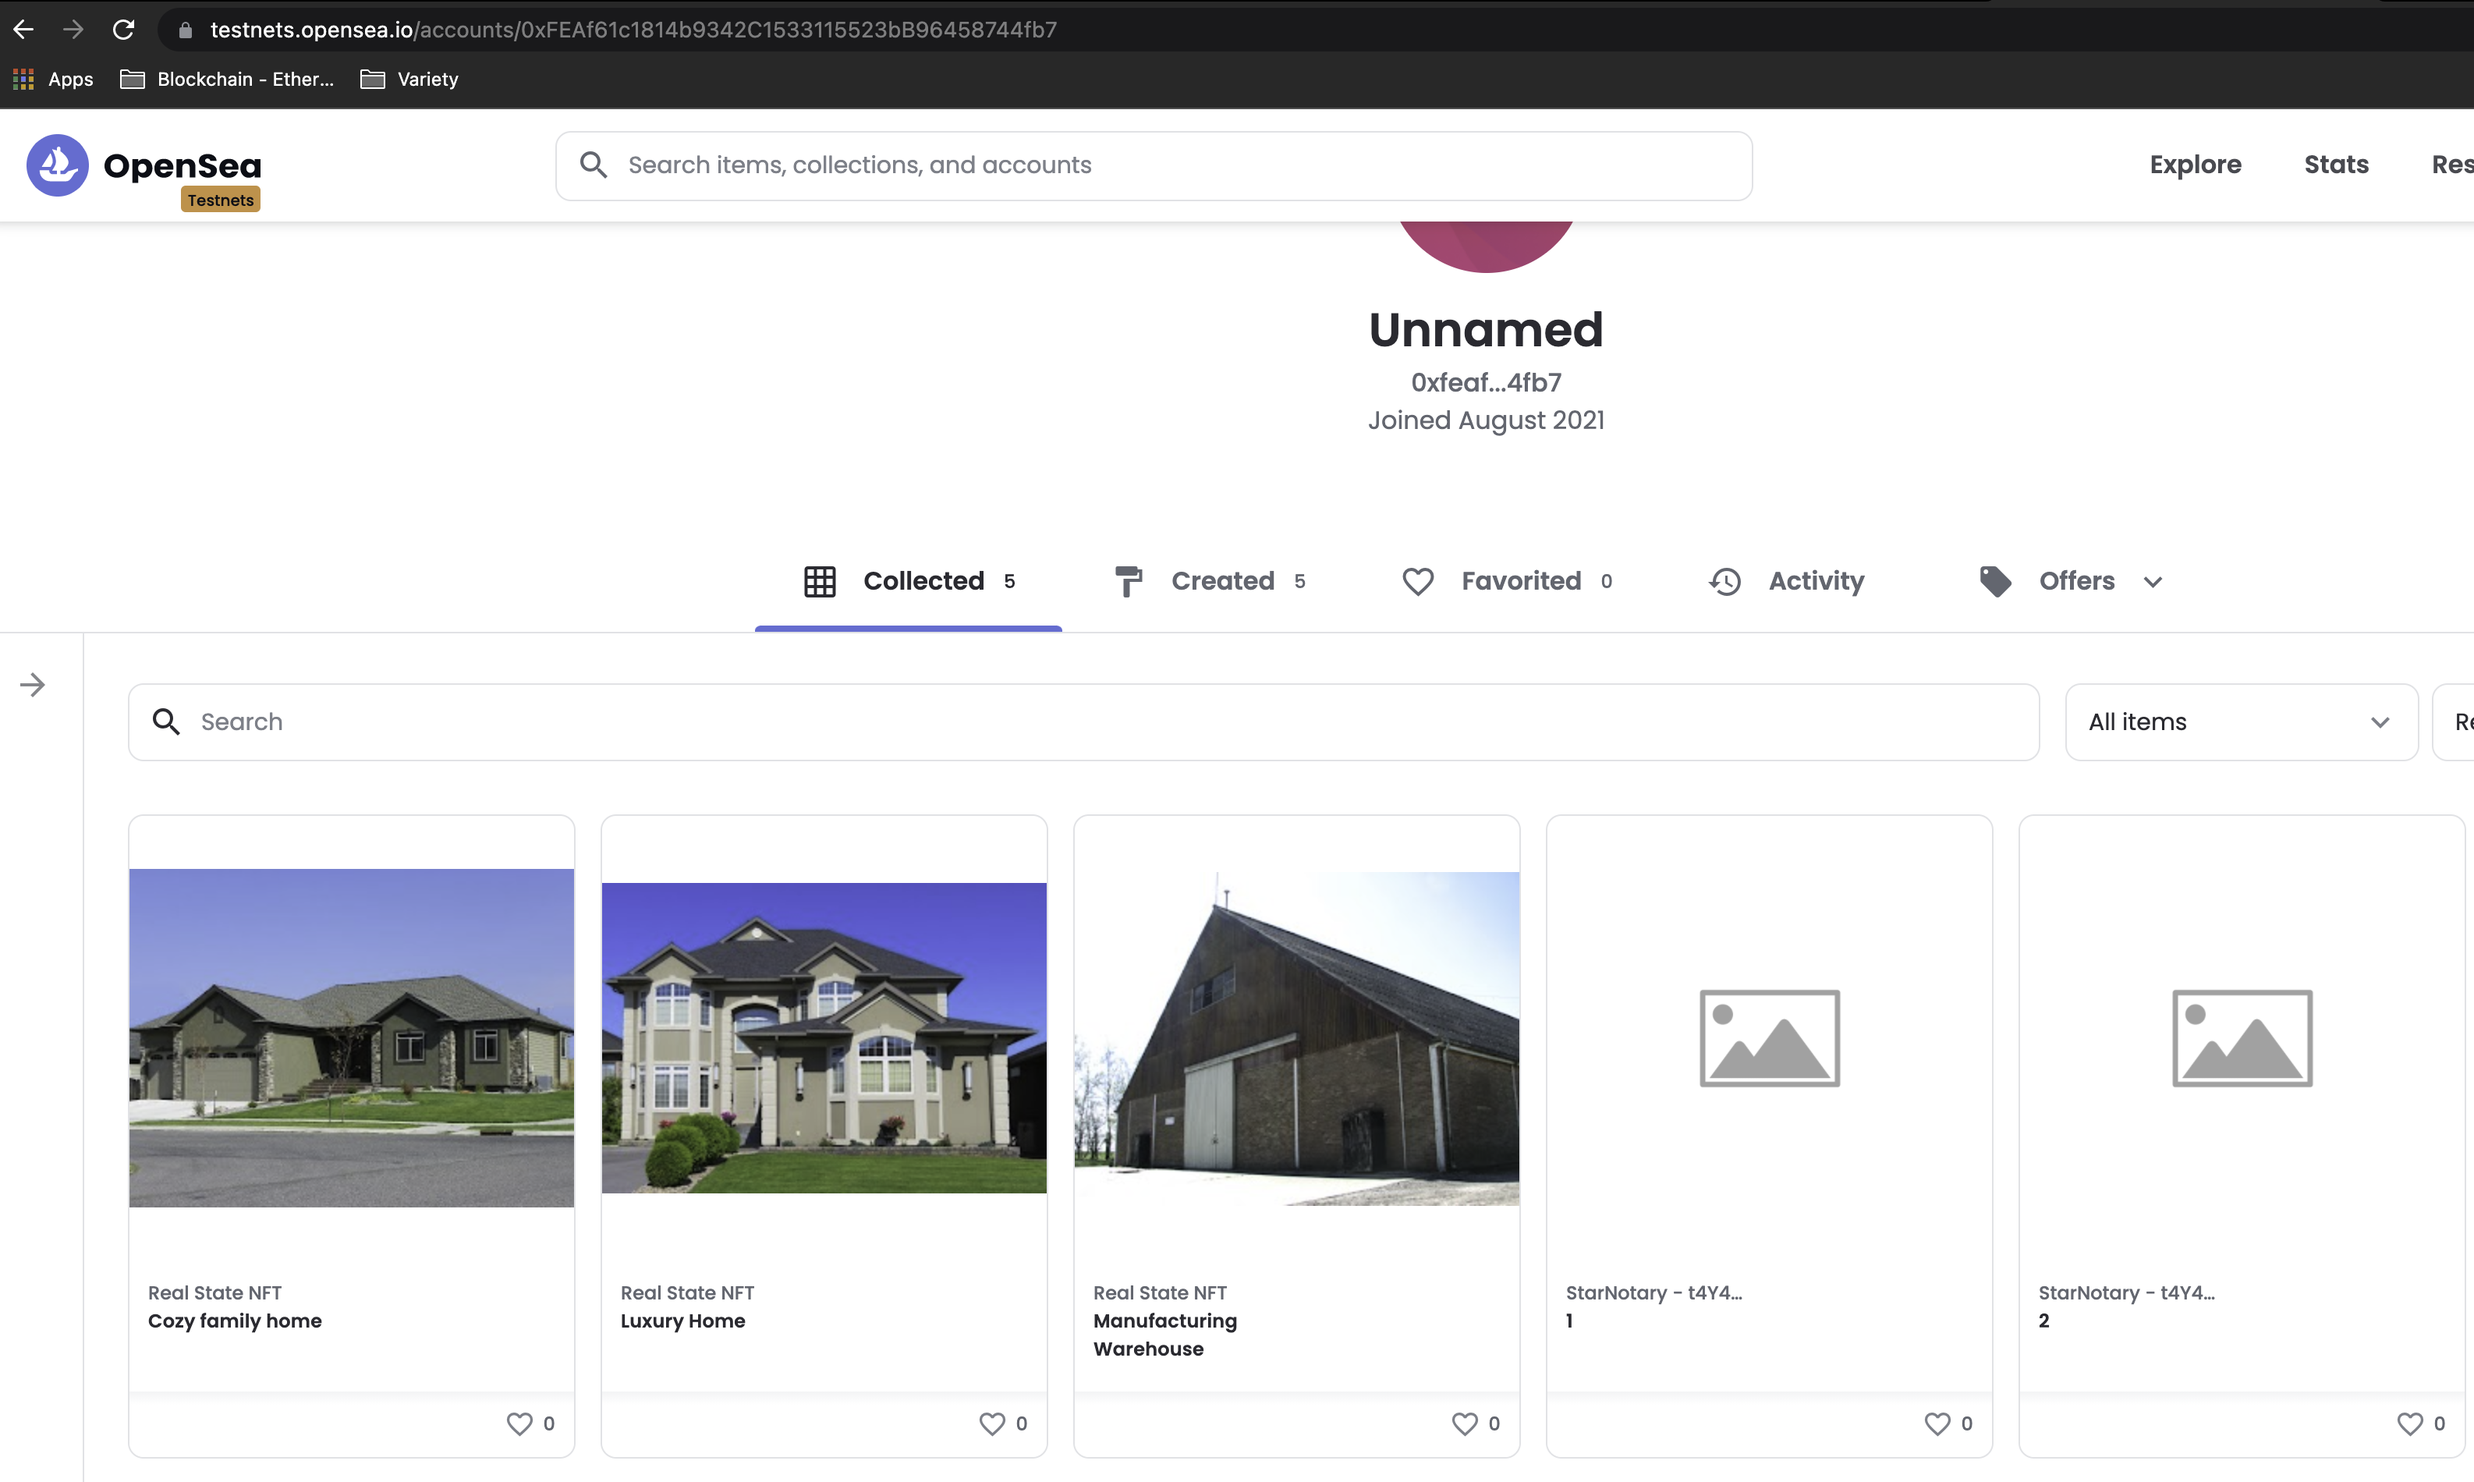
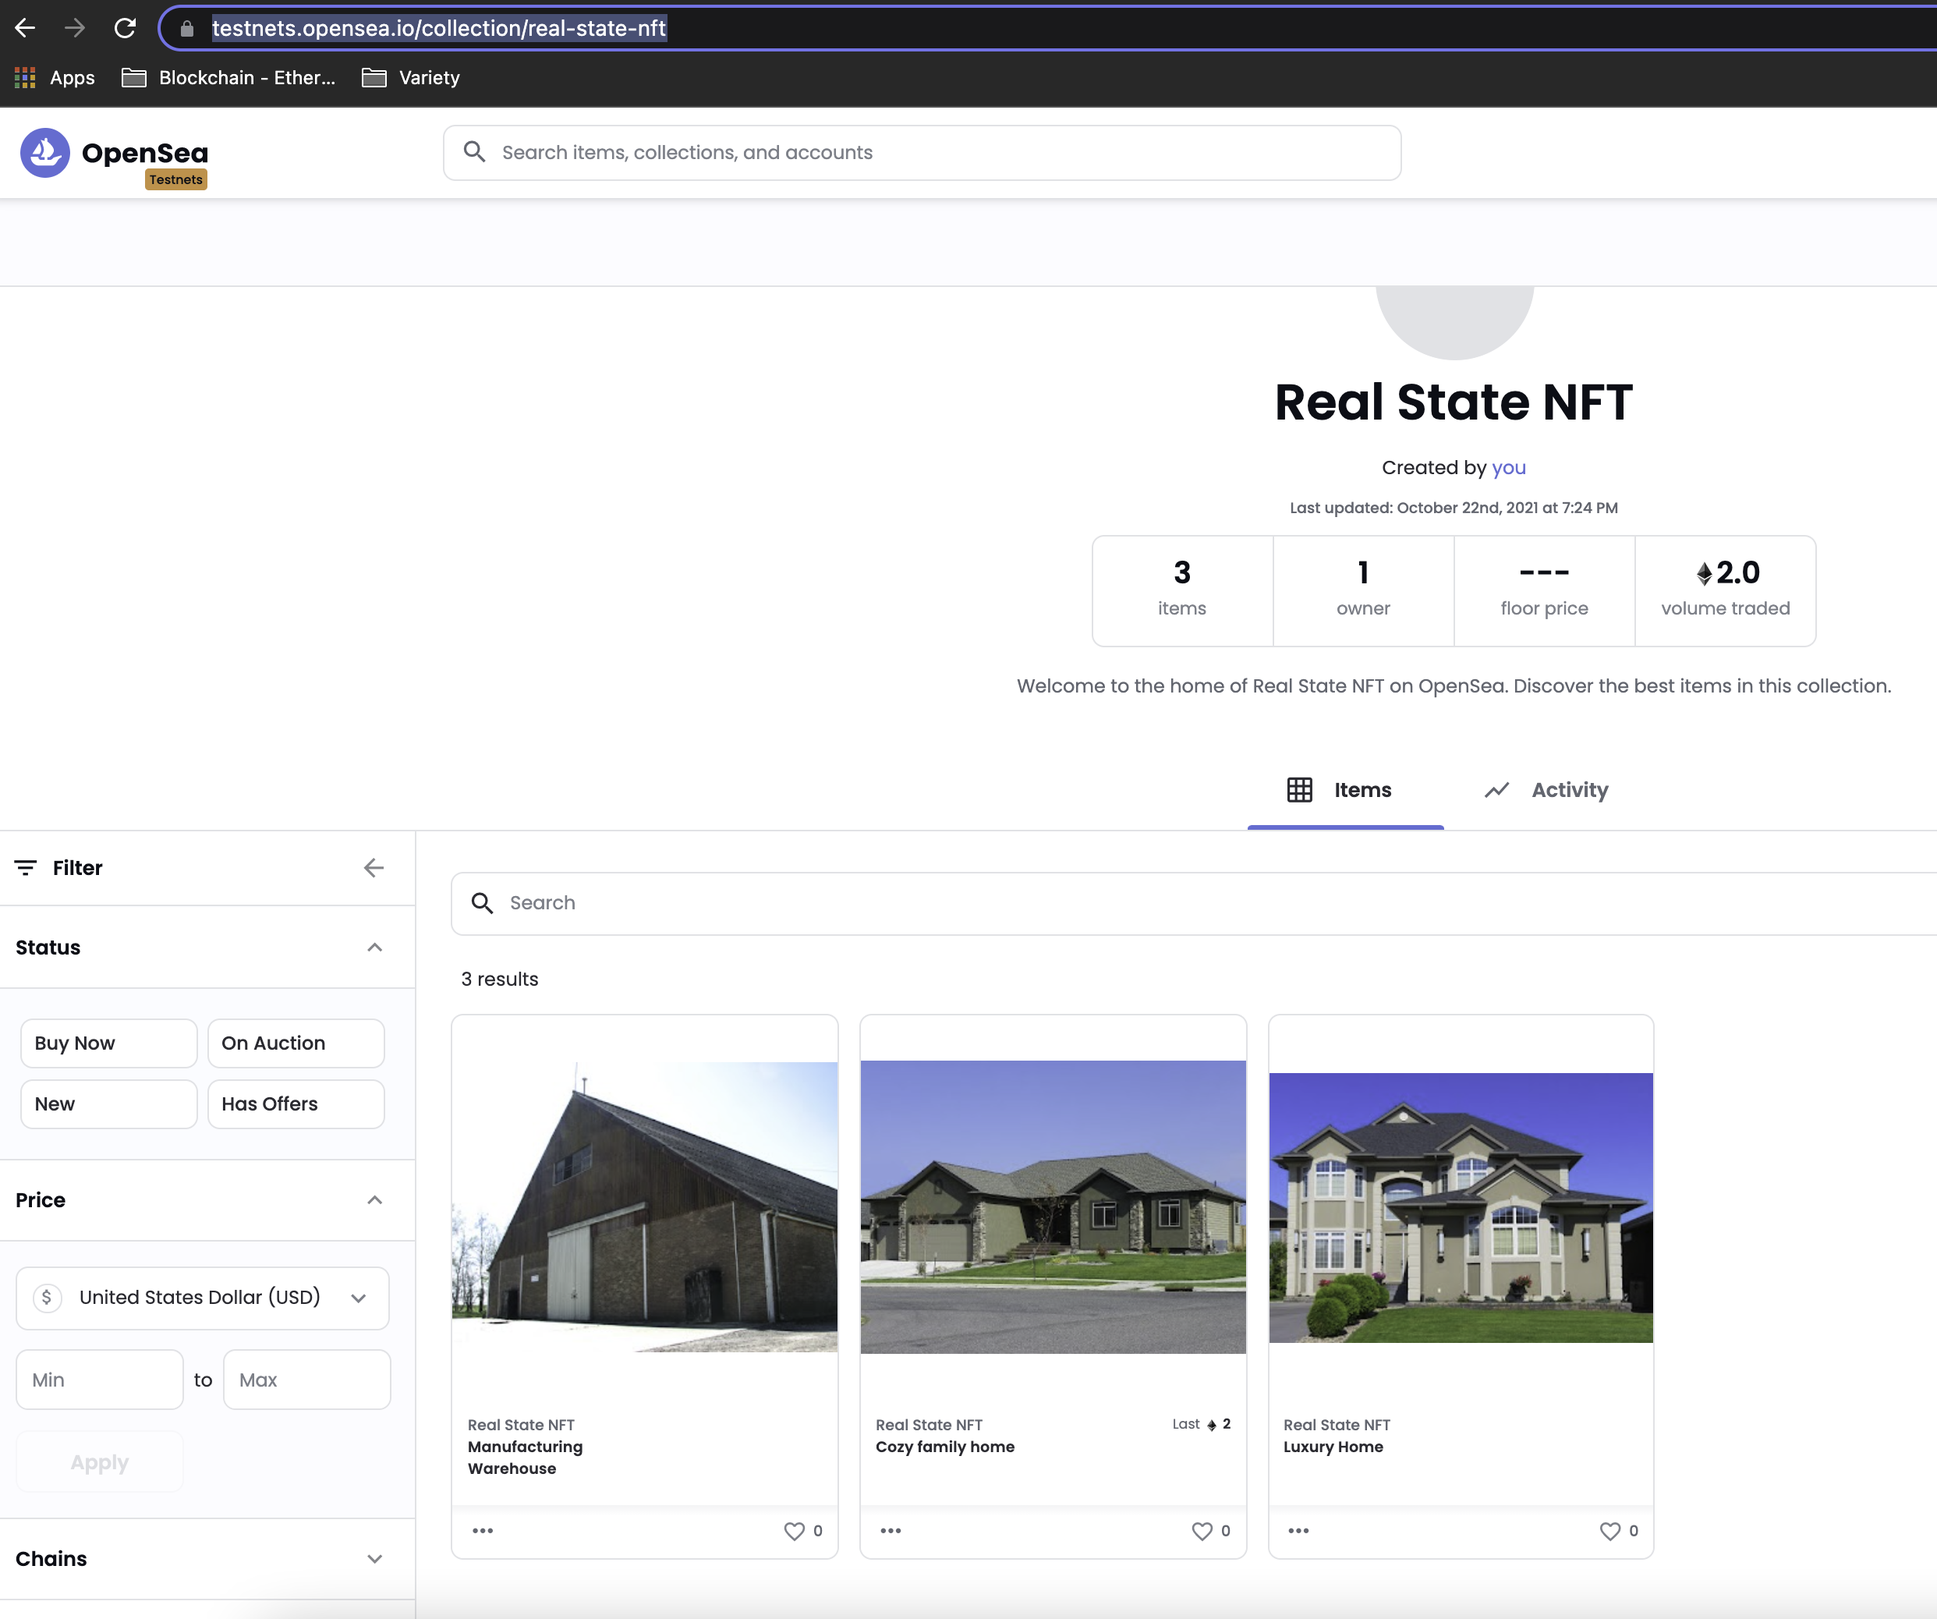
Change the link an screenshot to marketplace

diff --git a/README.md b/README.md
@@ -30,7 +30,7 @@ Once you have checked out this project to your local computer, please follow the
 
 Once your smart contracts has been deployed, please navigate to the below link in order to see the items minted and listed:
 
-- [Tokens enumerated in the market](https://rinkeby.opensea.io/accounts/0xFEAf61c1814b9342C1533115523bB96458744fb7) to see on the test OpenSea network the contents for this account. 
+- [Tokens enumerated in the market](https://testnets.opensea.io/collection/real-state-nft) to see on the test OpenSea network the contents for this account. 
 
 ![Account on OpenSea test](img/AccountOpenSeaTest.png)
 
